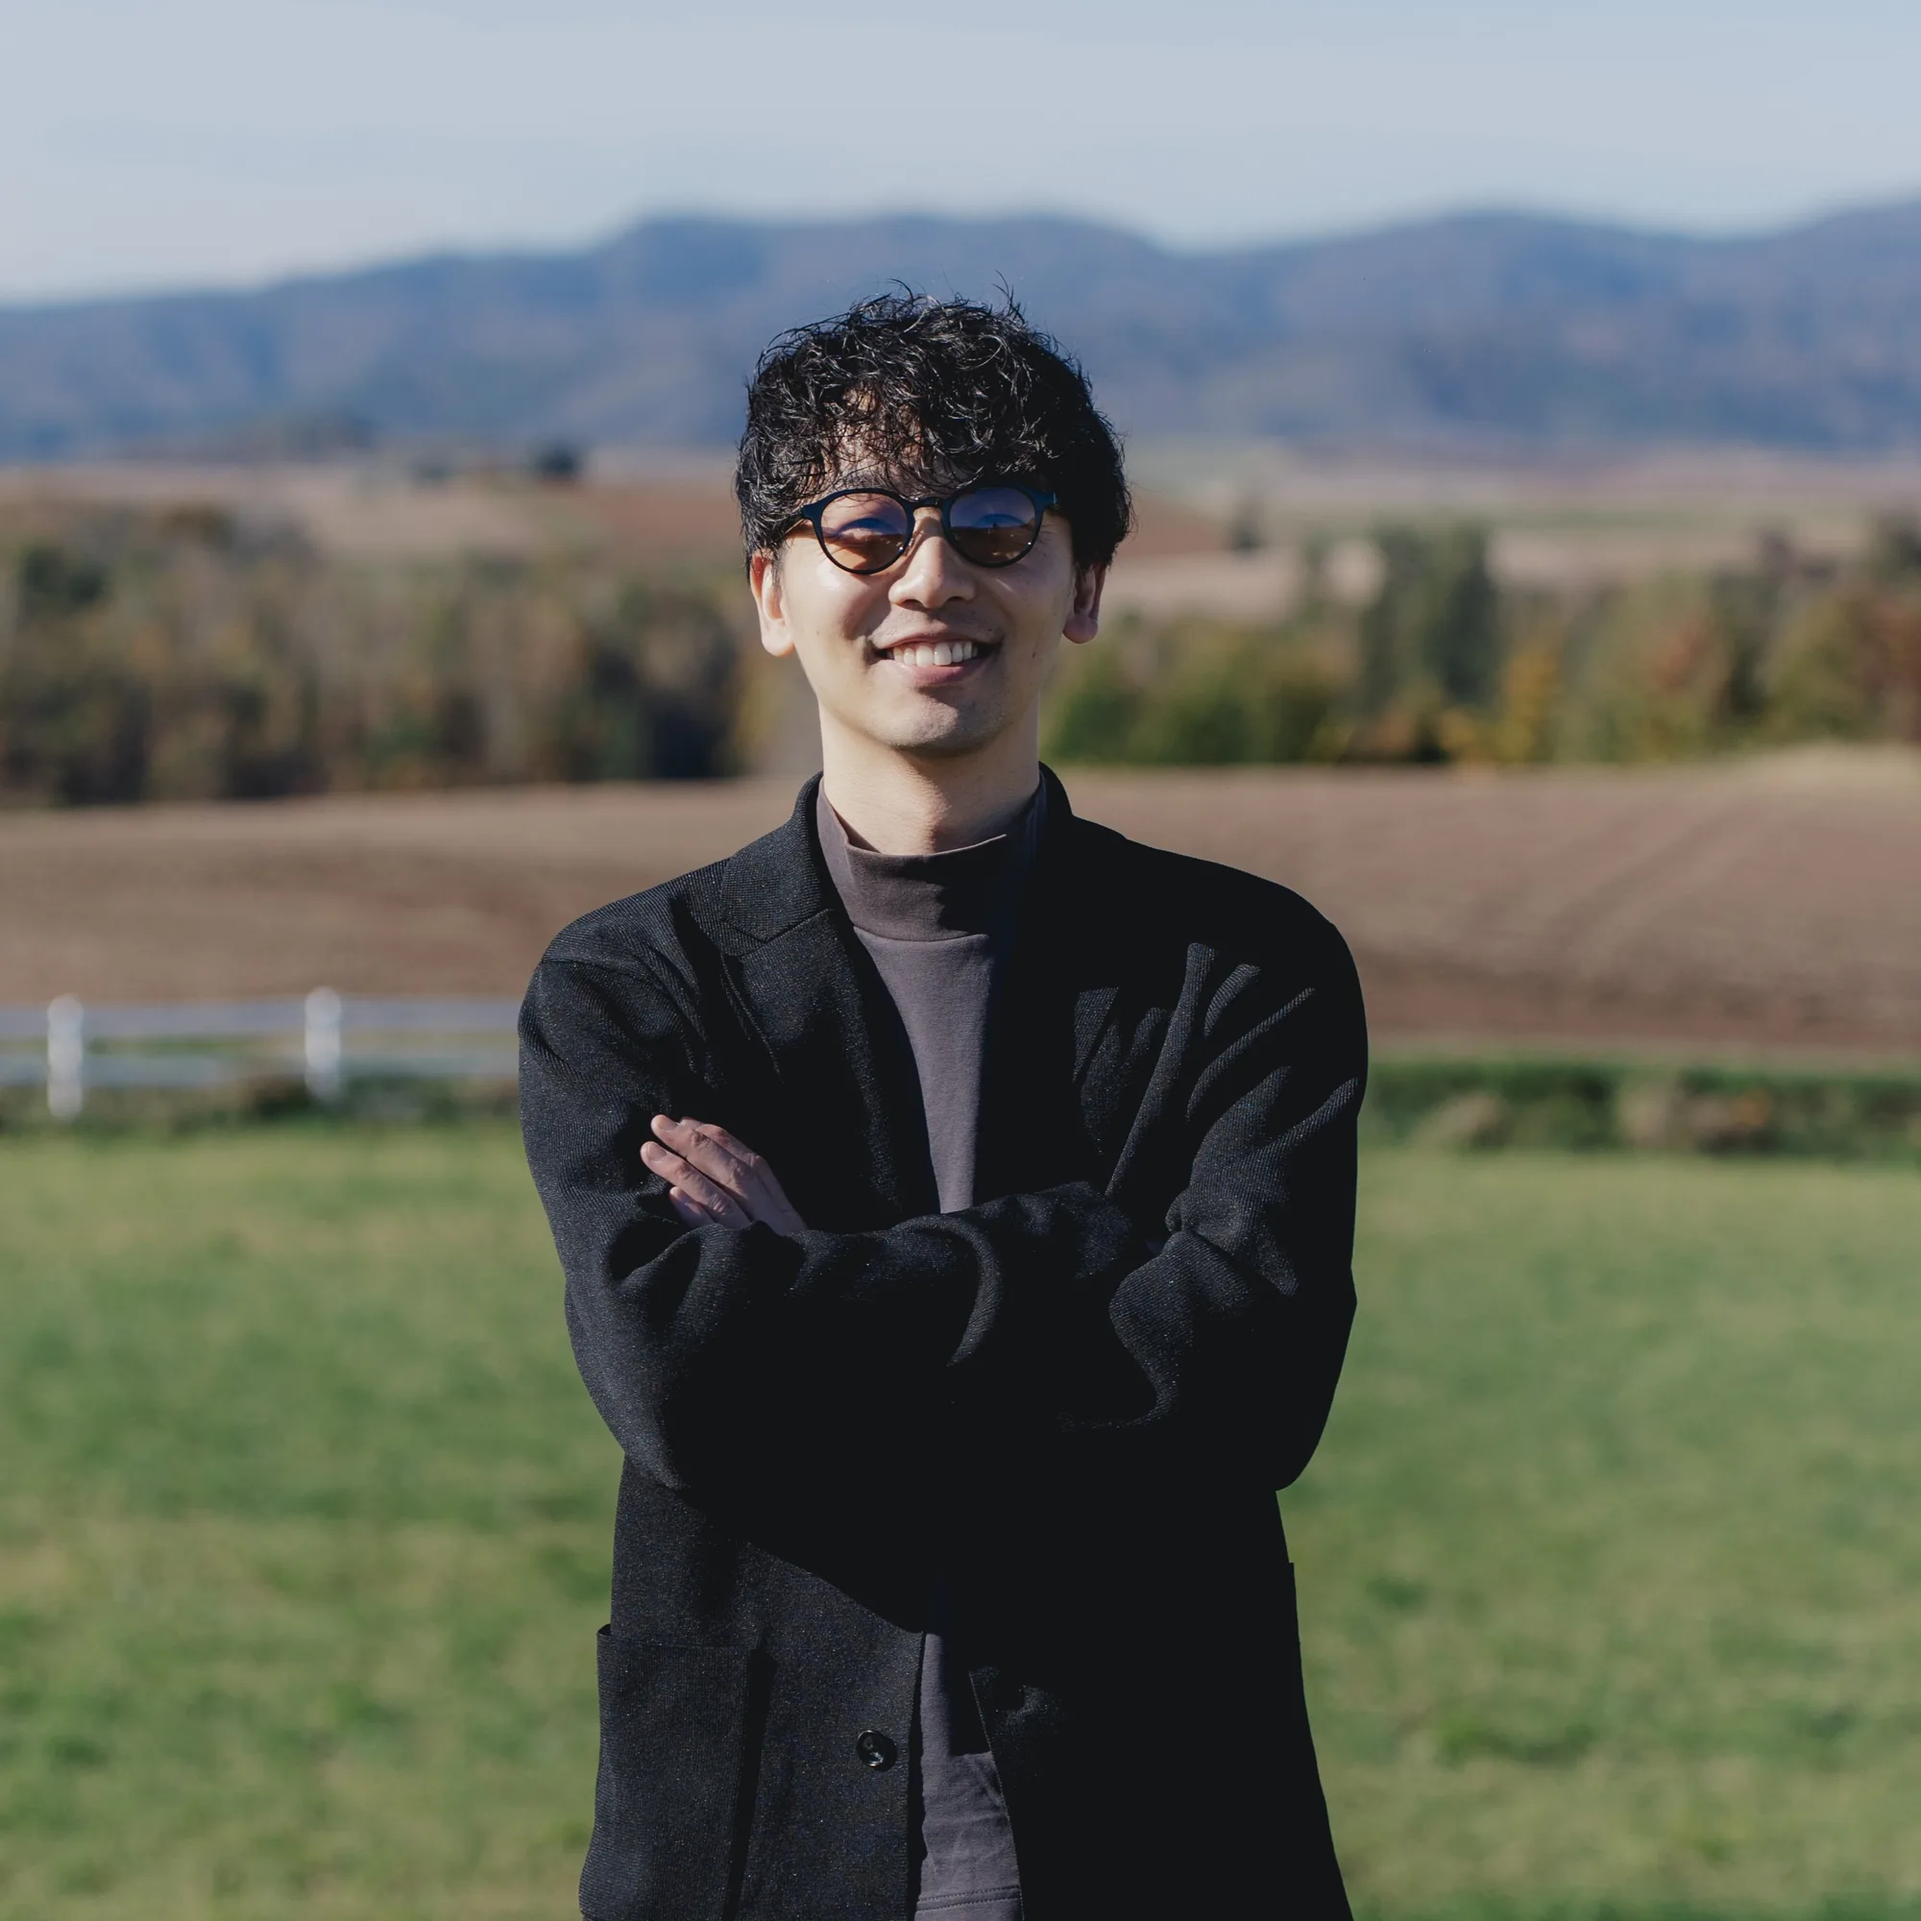
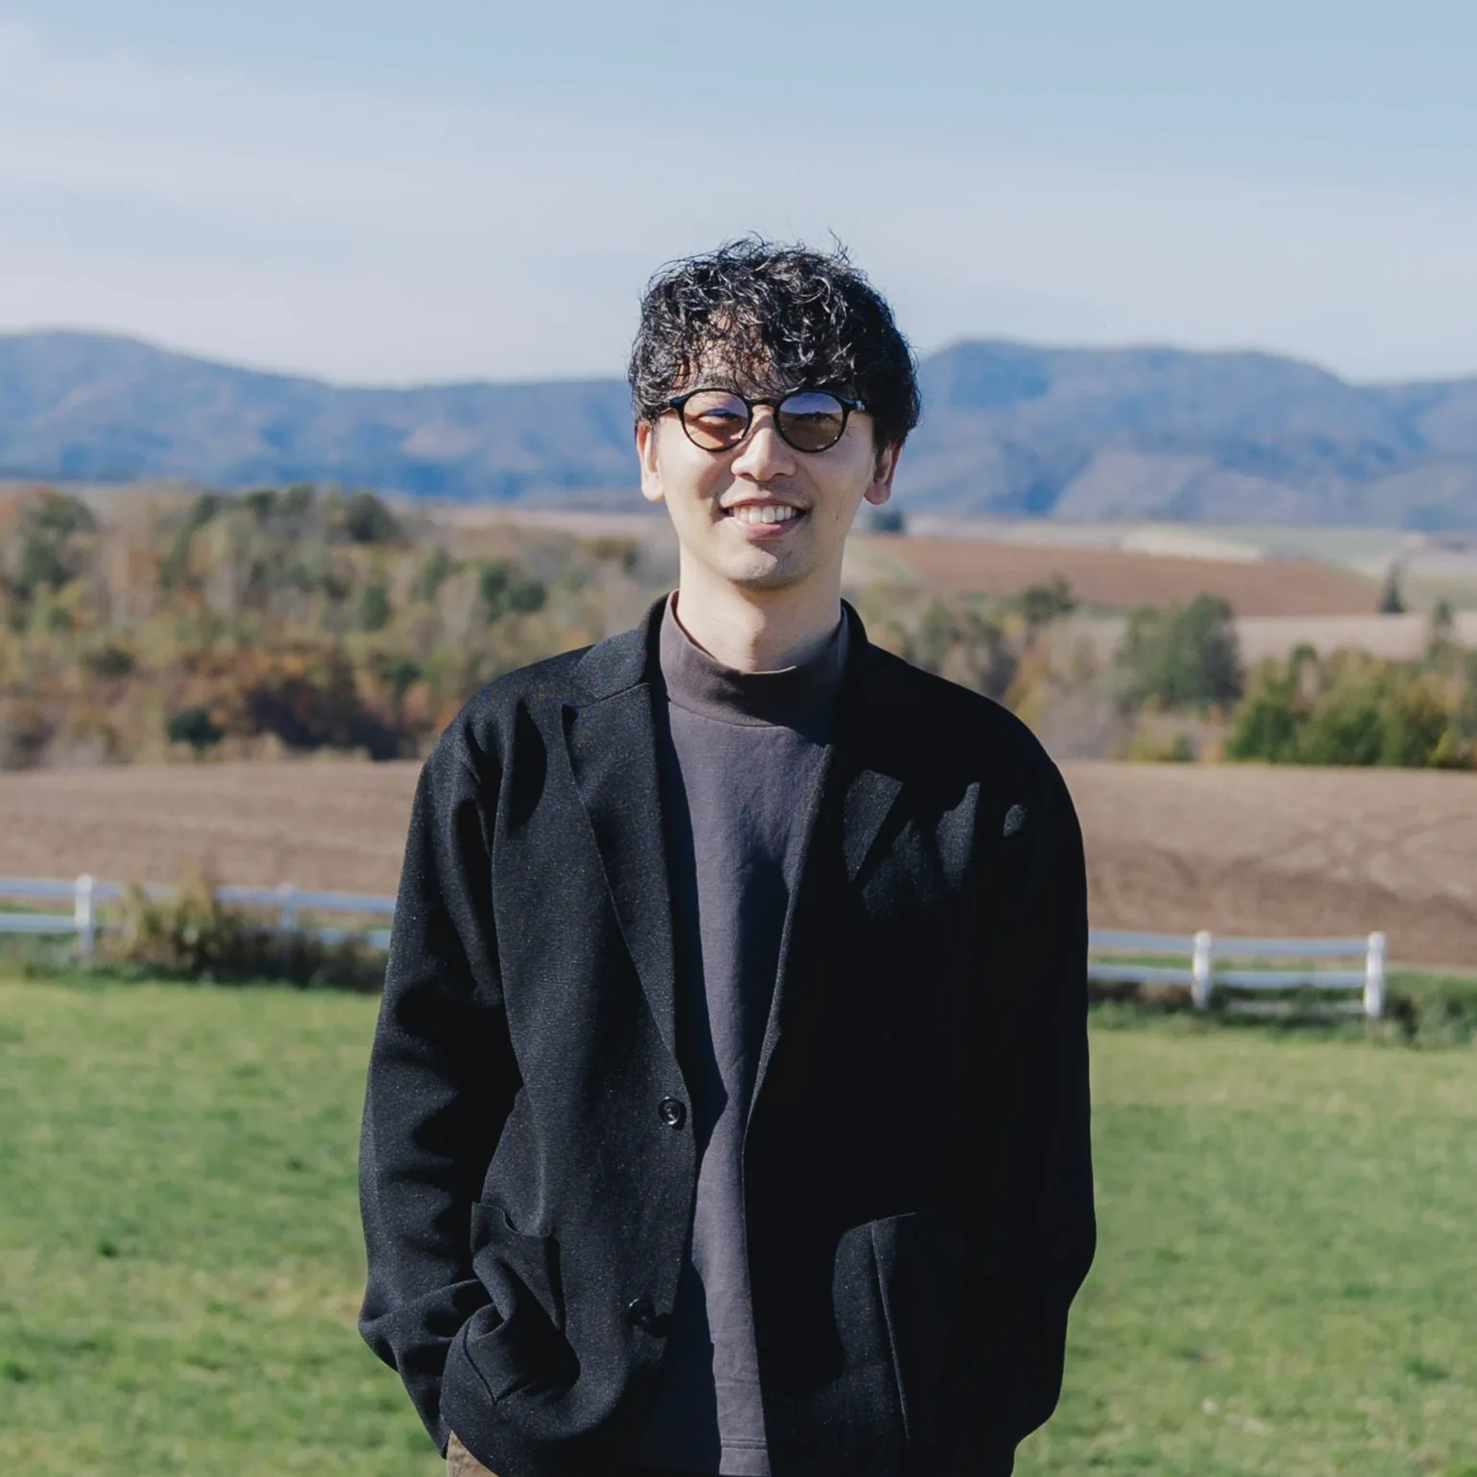
Team の Mashu の写真を新しいものに差し替え

diff --git a/index.html b/index.html
@@ -39,8 +39,8 @@
 <link rel="stylesheet" href="https://fonts.googleapis.com/css2?family=Noto+Sans+JP:wght@300;400;500&family=Noto+Serif+JP:wght@400&family=Cormorant+Garamond:ital,wght@0,500;0,600;1,400;1,500&family=Jost:ital,wght@0,200;0,300;0,400;1,300&family=EB+Garamond:wght@500&family=Murecho:wght@400&display=swap">
 
 <!-- デザイン（色・フォント・余白はすべてこのファイルで管理） -->
-<link rel="stylesheet" href="assets/css/style.css?v=202611010819">
-<link rel="stylesheet" href="assets/css/letter.css?v=202611010819">   <!-- UBAKU Letter（メルマガ）の購読：右下の札・窓・Journal のあとの購読欄 -->
+<link rel="stylesheet" href="assets/css/style.css?v=202611031235">
+<link rel="stylesheet" href="assets/css/letter.css?v=202611031235">   <!-- UBAKU Letter（メルマガ）の購読：右下の札・窓・Journal のあとの購読欄 -->
 
 <!-- Googleに会社情報を伝えるデータ（構造化データ）
      ロゴ画像と note のURLが決まったら "logo" と sameAs に追加する -->
@@ -334,7 +334,7 @@
   </div>
   <div class="team-grid">
     <div class="member">
-      <div class="photo ph3"><img src="assets/img/mashu.webp" alt="Mashu" width="2000" height="2000" loading="lazy"></div>
+      <div class="photo ph3"><img src="assets/img/mashu.webp" alt="Mashu" width="1538" height="1538" loading="lazy"></div>
       <span class="label">Producer｜描く人</span>
       <h3>Mashu</h3>
       <p class="body fold-clamp" id="fold-member-1">東川町立日本語学校での短期留学をきっかけに、日本へ移住。いまは東京で不動産開発会社で働きながら、美瑛・東川町を舞台に個人での活動を重ねる。宿をつくり、野菜を届け、地域の仕組みを描いていく。</p>
@@ -458,9 +458,9 @@
 </section>
 
 <script src="https://web3forms.com/client/script.js" async defer></script>
-<script src="assets/js/notes.js?v=202611010819"></script>
-<script src="assets/js/main.js?v=202611010819"></script>
-<script src="assets/js/letter.js?v=202611010819" data-auto="on"></script>   <!-- data-auto="on"：開いて少したったら真ん中に大きな購読の窓を出す（トップだけ。2026-10-31） -->
+<script src="assets/js/notes.js?v=202611031235"></script>
+<script src="assets/js/main.js?v=202611031235"></script>
+<script src="assets/js/letter.js?v=202611031235" data-auto="on"></script>   <!-- data-auto="on"：開いて少したったら真ん中に大きな購読の窓を出す（トップだけ。2026-10-31） -->
 
 <!-- ページの一番上へ戻るボタン（矢印だけ。スクロールすると右下の UBAKU Letter の札の上に出る。2026-10-25） -->
 <a class="to-top" href="#" aria-label="ページの一番上へ"><svg viewBox="0 0 24 24" aria-hidden="true"><path d="M12 19V5M5.5 11.5 12 5l6.5 6.5"/></svg></a>

diff --git a/design/works/ubaku-villa/index.html b/design/works/ubaku-villa/index.html
@@ -30,10 +30,10 @@
 <link rel="preconnect" href="https://fonts.gstatic.com" crossorigin>
 <link rel="stylesheet" href="https://fonts.googleapis.com/css2?family=Noto+Sans+JP:wght@300;400;500&family=Noto+Serif+JP:wght@400&family=Cormorant+Garamond:ital,wght@0,500;0,600;1,400;1,500&family=Jost:wght@200;300;400&family=EB+Garamond:wght@500&family=Murecho:wght@400&display=swap">
 <!-- デザイン：共通の style.css・下層ページの sub.css ＋ 事例ページ用の works.css -->
-<link rel="stylesheet" href="../../../assets/css/style.css?v=202611010819">
-<link rel="stylesheet" href="../../../assets/css/sub.css?v=202611010819">
-<link rel="stylesheet" href="../../../assets/css/works.css?v=202611010819">
-<link rel="stylesheet" href="../../../assets/css/letter.css?v=202611010819">
+<link rel="stylesheet" href="../../../assets/css/style.css?v=202611031235">
+<link rel="stylesheet" href="../../../assets/css/sub.css?v=202611031235">
+<link rel="stylesheet" href="../../../assets/css/works.css?v=202611031235">
+<link rel="stylesheet" href="../../../assets/css/letter.css?v=202611031235">
 </head>
 <body class="page-design page-works">
 
@@ -289,13 +289,13 @@
   </div>
 </section>
 
-<script src="../../../assets/js/main.js?v=202611010819"></script>
+<script src="../../../assets/js/main.js?v=202611031235"></script>
 <!-- 下に浮く小さな目次（表紙の写真を過ぎたら出る。いま読んでいる所に印。動きは works.js） -->
 <nav class="wk-dock" aria-label="このページの目次">
   <a href="#overview">Overview</a><a href="#story">Story</a><a href="#space">Space</a><a href="#brand">Brand</a><a href="#credit">Credit</a>
 </nav>
-<script src="../../../assets/js/works.js?v=202611010819"></script>
-<script src="../../../assets/js/letter.js?v=202611010819" data-privacy="../../../privacy/" data-band="off"></script>
+<script src="../../../assets/js/works.js?v=202611031235"></script>
+<script src="../../../assets/js/letter.js?v=202611031235" data-privacy="../../../privacy/" data-band="off"></script>
 <a class="to-top" href="#" aria-label="ページの一番上へ"><svg viewBox="0 0 24 24" aria-hidden="true"><path d="M12 19V5M5.5 11.5 12 5l6.5 6.5"/></svg></a>
 </body>
 </html>

diff --git a/design/works/ubaku/index.html b/design/works/ubaku/index.html
@@ -30,10 +30,10 @@
 <link rel="preconnect" href="https://fonts.gstatic.com" crossorigin>
 <link rel="stylesheet" href="https://fonts.googleapis.com/css2?family=Noto+Sans+JP:wght@300;400;500&family=Noto+Serif+JP:wght@400&family=Cormorant+Garamond:ital,wght@0,500;0,600;1,400;1,500&family=Jost:wght@200;300;400&family=EB+Garamond:wght@500&family=Murecho:wght@400&display=swap">
 <!-- デザイン：共通の style.css・下層ページの sub.css ＋ 事例ページ用の works.css -->
-<link rel="stylesheet" href="../../../assets/css/style.css?v=202611010819">
-<link rel="stylesheet" href="../../../assets/css/sub.css?v=202611010819">
-<link rel="stylesheet" href="../../../assets/css/works.css?v=202611010819">
-<link rel="stylesheet" href="../../../assets/css/letter.css?v=202611010819">
+<link rel="stylesheet" href="../../../assets/css/style.css?v=202611031235">
+<link rel="stylesheet" href="../../../assets/css/sub.css?v=202611031235">
+<link rel="stylesheet" href="../../../assets/css/works.css?v=202611031235">
+<link rel="stylesheet" href="../../../assets/css/letter.css?v=202611031235">
 </head>
 <body class="page-design page-works">
 
@@ -241,13 +241,13 @@
   </div>
 </section>
 
-<script src="../../../assets/js/main.js?v=202611010819"></script>
+<script src="../../../assets/js/main.js?v=202611031235"></script>
 <!-- 下に浮く小さな目次（表紙の写真を過ぎたら出る。いま読んでいる所に印。動きは works.js） -->
 <nav class="wk-dock" aria-label="このページの目次">
   <a href="#overview">Overview</a><a href="#story">Story</a><a href="#brand">Brand</a><a href="#credit">Credit</a>
 </nav>
-<script src="../../../assets/js/works.js?v=202611010819"></script>
-<script src="../../../assets/js/letter.js?v=202611010819" data-privacy="../../../privacy/" data-band="off"></script>
+<script src="../../../assets/js/works.js?v=202611031235"></script>
+<script src="../../../assets/js/letter.js?v=202611031235" data-privacy="../../../privacy/" data-band="off"></script>
 <a class="to-top" href="#" aria-label="ページの一番上へ"><svg viewBox="0 0 24 24" aria-hidden="true"><path d="M12 19V5M5.5 11.5 12 5l6.5 6.5"/></svg></a>
 </body>
 </html>

diff --git a/design/index.html b/design/index.html
@@ -36,10 +36,10 @@
 <link rel="stylesheet" href="https://fonts.googleapis.com/css2?family=Noto+Sans+JP:wght@300;400;500&family=Noto+Serif+JP:wght@400&family=Cormorant+Garamond:ital,wght@0,500;0,600;1,400;1,500&family=Jost:wght@200;300;400&family=EB+Garamond:wght@500&family=Murecho:wght@400&display=swap">
 
 <!-- デザイン：トップページと共通の style.css ＋ 下層ページ用の sub.css ＋ UBAKU Letter の札 -->
-<link rel="stylesheet" href="../assets/css/style.css?v=202611010819">
-<link rel="stylesheet" href="../assets/css/sub.css?v=202611010819">
-<link rel="stylesheet" href="../assets/css/letter.css?v=202611010819">
-<link rel="stylesheet" href="../assets/css/works.css?v=202611010819">   <!-- Works の事例カード（2026-10-31） -->
+<link rel="stylesheet" href="../assets/css/style.css?v=202611031235">
+<link rel="stylesheet" href="../assets/css/sub.css?v=202611031235">
+<link rel="stylesheet" href="../assets/css/letter.css?v=202611031235">
+<link rel="stylesheet" href="../assets/css/works.css?v=202611031235">   <!-- Works の事例カード（2026-10-31） -->
 
 <!-- Googleにページの内容を伝えるデータ（このページで受けている仕事） -->
 <script type="application/ld+json">
@@ -425,9 +425,9 @@
 </section>
 
 <script src="https://web3forms.com/client/script.js" async defer></script>
-<script src="../assets/js/main.js?v=202611010819"></script>
+<script src="../assets/js/main.js?v=202611031235"></script>
 <!-- UBAKU Letter：右下の札だけ（data-band="off" でページの中の購読欄は入れない） -->
-<script src="../assets/js/letter.js?v=202611010819" data-privacy="../privacy/" data-band="off"></script>
+<script src="../assets/js/letter.js?v=202611031235" data-privacy="../privacy/" data-band="off"></script>
 
 <!-- ページの一番上へ戻るボタン（矢印だけ。スクロールすると右下の UBAKU Letter の札の上に出る。2026-10-25） -->
 <a class="to-top" href="#" aria-label="ページの一番上へ"><svg viewBox="0 0 24 24" aria-hidden="true"><path d="M12 19V5M5.5 11.5 12 5l6.5 6.5"/></svg></a>

diff --git a/consulting/index.html b/consulting/index.html
@@ -36,9 +36,9 @@
 <link rel="stylesheet" href="https://fonts.googleapis.com/css2?family=Noto+Sans+JP:wght@300;400;500&family=Noto+Serif+JP:wght@400&family=Cormorant+Garamond:ital,wght@0,500;0,600;1,400;1,500&family=Jost:wght@200;300;400&family=EB+Garamond:wght@500&family=Murecho:wght@400&display=swap">
 
 <!-- デザイン：トップページと共通の style.css ＋ 下層ページ用の sub.css ＋ UBAKU Letter の札 -->
-<link rel="stylesheet" href="../assets/css/style.css?v=202611010819">
-<link rel="stylesheet" href="../assets/css/sub.css?v=202611010819">
-<link rel="stylesheet" href="../assets/css/letter.css?v=202611010819">
+<link rel="stylesheet" href="../assets/css/style.css?v=202611031235">
+<link rel="stylesheet" href="../assets/css/sub.css?v=202611031235">
+<link rel="stylesheet" href="../assets/css/letter.css?v=202611031235">
 
 <!-- Googleにページの内容を伝えるデータ（このページで受けている仕事） -->
 <script type="application/ld+json">
@@ -416,9 +416,9 @@
 </section>
 
 <script src="https://web3forms.com/client/script.js" async defer></script>
-<script src="../assets/js/main.js?v=202611010819"></script>
+<script src="../assets/js/main.js?v=202611031235"></script>
 <!-- UBAKU Letter：右下の札だけ（data-band="off" でページの中の購読欄は入れない） -->
-<script src="../assets/js/letter.js?v=202611010819" data-privacy="../privacy/" data-band="off"></script>
+<script src="../assets/js/letter.js?v=202611031235" data-privacy="../privacy/" data-band="off"></script>
 
 <!-- ページの一番上へ戻るボタン（矢印だけ。スクロールすると右下の UBAKU Letter の札の上に出る。2026-10-25） -->
 <a class="to-top" href="#" aria-label="ページの一番上へ"><svg viewBox="0 0 24 24" aria-hidden="true"><path d="M12 19V5M5.5 11.5 12 5l6.5 6.5"/></svg></a>

diff --git a/design/works/index.html b/design/works/index.html
@@ -30,10 +30,10 @@
 <link rel="preconnect" href="https://fonts.gstatic.com" crossorigin>
 <link rel="stylesheet" href="https://fonts.googleapis.com/css2?family=Noto+Sans+JP:wght@300;400;500&family=Noto+Serif+JP:wght@400&family=Cormorant+Garamond:ital,wght@0,500;0,600;1,400;1,500&family=Jost:wght@200;300;400&family=EB+Garamond:wght@500&family=Murecho:wght@400&display=swap">
 <!-- デザイン：共通の style.css・下層ページの sub.css ＋ 事例ページ用の works.css -->
-<link rel="stylesheet" href="../../assets/css/style.css?v=202611010819">
-<link rel="stylesheet" href="../../assets/css/sub.css?v=202611010819">
-<link rel="stylesheet" href="../../assets/css/works.css?v=202611010819">
-<link rel="stylesheet" href="../../assets/css/letter.css?v=202611010819">
+<link rel="stylesheet" href="../../assets/css/style.css?v=202611031235">
+<link rel="stylesheet" href="../../assets/css/sub.css?v=202611031235">
+<link rel="stylesheet" href="../../assets/css/works.css?v=202611031235">
+<link rel="stylesheet" href="../../assets/css/letter.css?v=202611031235">
 </head>
 <body class="page-design page-works">
 
@@ -157,8 +157,8 @@
   </div>
 </section>
 
-<script src="../../assets/js/main.js?v=202611010819"></script>
-<script src="../../assets/js/letter.js?v=202611010819" data-privacy="../../privacy/" data-band="off"></script>
+<script src="../../assets/js/main.js?v=202611031235"></script>
+<script src="../../assets/js/letter.js?v=202611031235" data-privacy="../../privacy/" data-band="off"></script>
 <a class="to-top" href="#" aria-label="ページの一番上へ"><svg viewBox="0 0 24 24" aria-hidden="true"><path d="M12 19V5M5.5 11.5 12 5l6.5 6.5"/></svg></a>
 </body>
 </html>

diff --git a/privacy/index.html b/privacy/index.html
@@ -36,8 +36,8 @@
 <link rel="stylesheet" href="https://fonts.googleapis.com/css2?family=Noto+Sans+JP:wght@300;400;500&family=Noto+Serif+JP:wght@400&family=Cormorant+Garamond:ital,wght@0,500;0,600;1,400;1,500&family=Jost:wght@200;300;400&family=EB+Garamond:wght@500&family=Murecho:wght@400&display=swap">
 
 <!-- デザイン：トップページと共通の style.css ＋ 下層ページ用の sub.css -->
-<link rel="stylesheet" href="../assets/css/style.css?v=202611010819">
-<link rel="stylesheet" href="../assets/css/sub.css?v=202611010819">
+<link rel="stylesheet" href="../assets/css/style.css?v=202611031235">
+<link rel="stylesheet" href="../assets/css/sub.css?v=202611031235">
 </head>
 <body class="page-privacy">
 
@@ -173,7 +173,7 @@
   </div>
 </section>
 
-<script src="../assets/js/main.js?v=202611010819"></script>
+<script src="../assets/js/main.js?v=202611031235"></script>
 
 <!-- ページの一番上へ戻るボタン（矢印だけ。スクロールすると右下の UBAKU Letter の札の上に出る。2026-10-25） -->
 <a class="to-top" href="#" aria-label="ページの一番上へ"><svg viewBox="0 0 24 24" aria-hidden="true"><path d="M12 19V5M5.5 11.5 12 5l6.5 6.5"/></svg></a>
